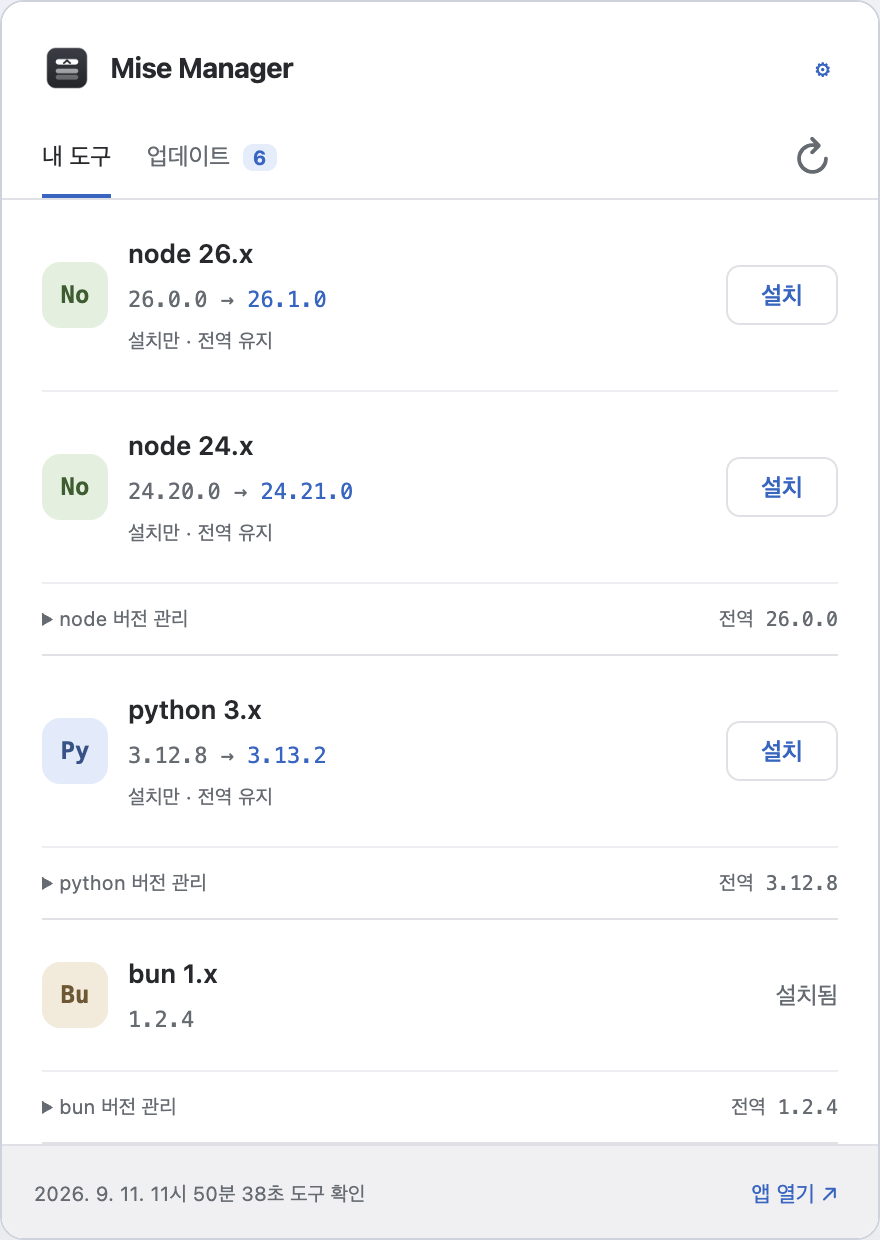
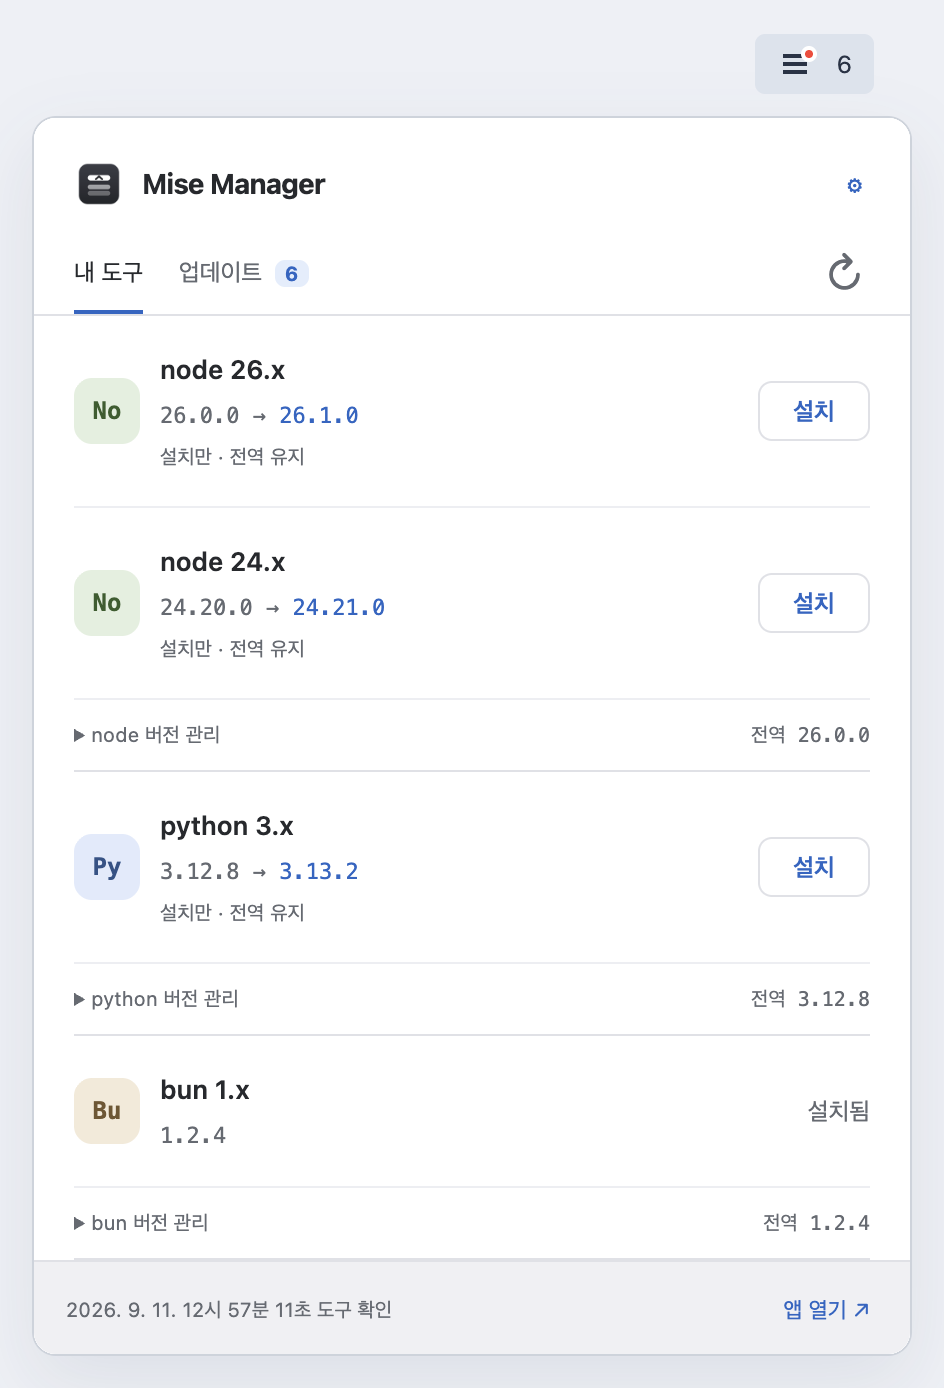
feat(tray): show a red badge when updates are available
Make pending mise, tool, and plugin updates visible on the menu-bar icon.
Preserve the native light/dark icon tint and click handling, keep the badge
visible during refreshes, and restore it when the status item is recreated.
Pin Tauri to the 2.11 series because native tray access follows its minor API.

Add a runnable native badge check and refresh the English and Korean README
screenshots and descriptions to show the update indicator.

diff --git a/src-tauri/examples/tray_badge_check.rs b/src-tauri/examples/tray_badge_check.rs
@@ -1,0 +1,92 @@
+//! Native UI regression check: cargo run --example tray_badge_check (macOS).
+#[cfg(target_os = "macos")]
+#[path = "../src/tray/badge.rs"]
+mod badge;
+
+#[cfg(target_os = "macos")]
+fn main() {
+    use objc2::{msg_send, MainThreadMarker};
+    use objc2_app_kit::{
+        NSAppearance, NSAppearanceCustomization, NSApplication, NSBitmapImageFileType,
+        NSCellImagePosition, NSImage, NSStatusBar,
+    };
+    use objc2_foundation::{NSDictionary, NSPoint, NSSize, NSString};
+
+    let mtm = MainThreadMarker::new().expect("run on the main thread");
+    let _app = NSApplication::sharedApplication(mtm);
+    let bar = NSStatusBar::systemStatusBar();
+    // Hiding and showing the app's tray creates a new native status item.
+    for _ in 0..2 {
+        let item = bar.statusItemWithLength(-1.0);
+        let button = item.button(mtm).unwrap();
+        let icon = NSImage::imageWithSystemSymbolName_accessibilityDescription(
+            &NSString::from_str("line.3.horizontal"),
+            None,
+        )
+        .unwrap();
+        icon.setSize(NSSize::new(18.0, 18.0));
+        icon.setTemplate(true);
+        button.setImage(Some(&icon));
+        button.setImagePosition(NSCellImagePosition::ImageLeft);
+        let baseline = button.subviews().len();
+        badge::update(&button, false, false);
+        assert_eq!(button.subviews().len(), baseline);
+        for title in ["3", "…", "12"] {
+            button.setTitle(&NSString::from_str(title));
+            button.sizeToFit();
+            badge::update(&button, true, false);
+            badge::update(&button, false, true);
+            assert_eq!(button.subviews().len(), baseline + 1, "reuse one badge");
+            let dot = button.subviews().lastObject().unwrap();
+            assert!(!dot.isHidden(), "updates remain visible during checks");
+            assert!(
+                dot.hitTest(NSPoint::new(4.0, 4.0)).is_none(),
+                "badge must not swallow clicks"
+            );
+            let accessible: bool = unsafe { msg_send![&dot, isAccessibilityElement] };
+            assert!(
+                !accessible,
+                "badge is decorative; the parent describes updates"
+            );
+            assert!(
+                button.image().unwrap().isTemplate(),
+                "keep native light/dark tint"
+            );
+            assert!(dot.frame().origin.x >= 0.0);
+            assert!(dot.frame().origin.y >= 0.0);
+        }
+        if let Some(directory) = std::env::var_os("MISE_BADGE_CAPTURE_DIR") {
+            let directory = std::path::PathBuf::from(directory);
+            std::fs::create_dir_all(&directory).unwrap();
+            for theme in ["NSAppearanceNameAqua", "NSAppearanceNameDarkAqua"] {
+                let appearance = NSAppearance::appearanceNamed(&NSString::from_str(theme)).unwrap();
+                button.setAppearance(Some(&appearance));
+                let bitmap = button
+                    .bitmapImageRepForCachingDisplayInRect(button.bounds())
+                    .unwrap();
+                button.cacheDisplayInRect_toBitmapImageRep(button.bounds(), &bitmap);
+                // No format-specific options are passed to AppKit.
+                let png = unsafe {
+                    bitmap.representationUsingType_properties(
+                        NSBitmapImageFileType::PNG,
+                        &NSDictionary::new(),
+                    )
+                }
+                .unwrap();
+                std::fs::write(directory.join(format!("{theme}.png")), png.to_vec()).unwrap();
+            }
+        }
+        badge::update(&button, false, false);
+        assert!(
+            button.subviews().lastObject().unwrap().isHidden(),
+            "clear when no updates remain"
+        );
+        bar.removeStatusItem(&item);
+    }
+    println!("Native badge: visibility, reuse, click-through, template tint and recreation passed");
+}
+
+#[cfg(not(target_os = "macos"))]
+fn main() {
+    eprintln!("This check requires macOS.");
+}

diff --git a/src-tauri/src/tray/badge.rs b/src-tauri/src/tray/badge.rs
@@ -1,0 +1,74 @@
+use objc2::{define_class, msg_send, rc::Retained, MainThreadMarker, MainThreadOnly};
+use objc2_app_kit::{NSBezierPath, NSColor, NSStatusBarButton, NSView};
+use objc2_foundation::{NSPoint, NSRect, NSSize};
+
+define_class!(
+    #[unsafe(super(NSView))]
+    #[name = "MiseManagerUpdateBadge"]
+    struct UpdateBadge;
+
+    impl UpdateBadge {
+        #[unsafe(method(drawRect:))]
+        fn draw(&self, _rect: NSRect) {
+            // A separate native view preserves the parent icon's template tint.
+            let circle = NSBezierPath::bezierPathWithOvalInRect(NSRect::new(
+                NSPoint::new(1.0, 1.0), NSSize::new(6.0, 6.0),
+            ));
+            NSColor::whiteColor().set();
+            circle.setLineWidth(2.0);
+            circle.stroke();
+            NSColor::systemRedColor().set();
+            circle.fill();
+        }
+
+        #[unsafe(method(hitTest:))]
+        fn hit_test(&self, _point: NSPoint) -> *mut NSView {
+            // Clicking the badge must still open the status item's popover.
+            std::ptr::null_mut()
+        }
+
+        #[unsafe(method(isAccessibilityElement))]
+        fn is_accessibility_element(&self) -> bool {
+            false // The parent retains the update count and descriptive tooltip.
+        }
+    }
+);
+
+pub fn update(button: &NSStatusBarButton, available: bool, checking: bool) {
+    // Checks temporarily clear version candidates; keep the last visible badge.
+    if checking && !available {
+        return;
+    }
+    let existing = button
+        .subviews()
+        .iter()
+        .find_map(|view| view.downcast::<UpdateBadge>().ok());
+    if !available {
+        if let Some(badge) = existing {
+            badge.setHidden(true);
+        }
+        return;
+    }
+
+    let bounds = button.bounds();
+    let Some(cell) = button.cell() else { return };
+    let icon = cell.imageRectForBounds(bounds);
+    let top = if button.isFlipped() {
+        icon.origin.y
+    } else {
+        icon.origin.y + icon.size.height - 8.0
+    };
+    let frame = NSRect::new(
+        NSPoint::new(icon.origin.x + icon.size.width - 6.0, top),
+        NSSize::new(8.0, 8.0),
+    );
+    let badge = existing.unwrap_or_else(|| {
+        let allocated = UpdateBadge::alloc(MainThreadMarker::from(button));
+        // NSView's designated initializer, called on the main thread.
+        let view: Retained<UpdateBadge> = unsafe { msg_send![allocated, initWithFrame: frame] };
+        button.addSubview(&view);
+        view
+    });
+    badge.setFrame(frame);
+    badge.setHidden(false);
+}

diff --git a/src-tauri/src/tray.rs b/src-tauri/src/tray.rs
@@ -5,6 +5,9 @@ use tauri::{
     AppHandle, Manager, PhysicalPosition, WebviewUrl, WebviewWindowBuilder, WindowEvent,
 };
 
+#[cfg(target_os = "macos")]
+mod badge;
+
 #[tauri::command]
 pub fn show_main_window(app: AppHandle) -> Result<(), String> {
     let window = app
@@ -121,6 +124,16 @@ pub fn set_tray_status(
         )))
         .map_err(|e| e.to_string())?;
         tray.set_visible(visible).map_err(|e| e.to_string())?;
+        // Showing a hidden tray recreates NSStatusItem, so apply the badge last.
+        #[cfg(target_os = "macos")]
+        tray.with_inner_tray_icon(move |inner| {
+            let mtm =
+                objc2::MainThreadMarker::new().expect("tray callback runs on the main thread");
+            if let Some(button) = inner.ns_status_item().and_then(|item| item.button(mtm)) {
+                badge::update(&button, count > 0, checking);
+            }
+        })
+        .map_err(|e| e.to_string())?;
     }
     if !visible {
         hide_tray_window(app)?;

diff --git a/README.ko.md b/README.ko.md
@@ -15,11 +15,11 @@
 
 ## 스크린샷
 
-[![Node 26과 Node 24의 업데이트를 각각 보여 주는 Mise Manager 앱 창과 메뉴바 화면](./docs/images/mise-manager-overview.png)](./docs/images/mise-manager-overview.png)
+[![Node 26과 Node 24의 업데이트를 각각 보여 주는 Mise Manager 앱 창, 메뉴바 화면, 빨간 업데이트 배지](./docs/images/mise-manager-overview.png)](./docs/images/mise-manager-overview.png)
 
-**앱 창:** 도구를 찾고, 설치된 각 major 계열의 업데이트를 확인하고, 전역 버전을 관리합니다. **메뉴바:** 작은 창에서 업데이트를 확인하고 새 버전을 설치하거나 사용할 버전을 전환합니다.
+**앱 창:** 도구를 찾고, 설치된 각 major 계열의 업데이트를 확인하고, 전역 버전을 관리합니다. **메뉴바:** 빨간 배지와 개수로 mise·도구·플러그인의 업데이트 여부를 알려 줍니다. 작은 창을 열어 업데이트를 확인하고 새 버전을 설치하거나 사용할 버전을 전환합니다.
 
-원본 크기로 보기: [앱 창](./docs/images/mise-manager-app.png) · [메뉴바 화면](./docs/images/mise-manager-menu-bar.png)
+원본 크기로 보기: [앱 창](./docs/images/mise-manager-app.png) · [메뉴바 아이콘과 화면](./docs/images/mise-manager-menu-bar.png)
 
 밝은 테마의 현재 앱 UI를 브라우저 미리보기에서 촬영했습니다. 표시된 도구와 버전은 샘플 데이터이며, 창 테두리와 메뉴바 아이콘은 소개용으로 배치했습니다.
 
@@ -27,7 +27,7 @@
 
 - 검색 가능한 사이드바에서 설치된 도구를 바로 선택합니다. 상세 화면에서 설치된 각 major 계열과 최신 안정 버전을 확인하고 전역 버전을 선택합니다.
 - 사이드바에서 **mise 관리**, **플러그인 관리**, **작업 기록**, **설정**을 엽니다.
-- **업데이트**에서 도구의 각 버전 계열, mise, 외부 플러그인의 업데이트를 한 목록으로 확인합니다. 사이드바 배지와 macOS 메뉴바에 같은 업데이트 수가 표시되며, 확인하지 못했거나 확인에 실패한 항목도 보여 줍니다.
+- **업데이트**에서 도구의 각 버전 계열, mise, 외부 플러그인의 업데이트를 한 목록으로 확인합니다. 사이드바 배지와 macOS 메뉴바에 같은 업데이트 수가 표시됩니다. 업데이트가 있으면 메뉴바 아이콘에 빨간 점이 붙고, 남은 업데이트가 없으면 사라집니다. 확인하지 못했거나 확인에 실패한 항목도 별도로 보여 줍니다.
 - 메뉴바 아이콘을 누르면 작은 창에서 도구 목록을 확인하고, 계열별 업데이트를 설치하거나 전역 버전을 선택할 수 있습니다. **설정 → 메뉴바 아이콘 표시**는 기본으로 켜져 있으며 앱을 다시 실행해도 선택을 유지합니다. mise 자체 업데이트와 새 major 설치는 앱 창에서 검토합니다. 메뉴바 아이콘을 숨겨도 앱 창을 닫으면 계속 실행됩니다. Dock에서 다시 열거나 앱 메뉴에서 종료할 수 있고, 아이콘이 보일 때는 우클릭 메뉴의 **Mise Manager 종료**로도 종료할 수 있습니다.
 - 설치된 major 계열을 각각 추적합니다. 도구마다 원격 버전 목록을 한 번 조회해 Node 26과 Node 24의 최신 안정 버전을 따로 찾습니다.
 - 도구 버전을 설치하고 전역 버전을 전환하거나 사용하지 않는 버전을 삭제합니다.
@@ -98,6 +98,8 @@ cd src-tauri
 cargo test
 cargo check
 ```
+
+macOS에서는 `src-tauri/`에서 `cargo run --example tray_badge_check`를 실행해 배지 표시·숨김, 클릭 전달, 아이콘 재생성을 검사할 수 있습니다.
 
 ## 동작 방식
 

diff --git a/README.md b/README.md
@@ -15,11 +15,11 @@ macOS is currently the only supported platform.
 
 ## Screenshots
 
-[![Mise Manager app window and menu-bar panel showing separate updates for Node 26 and Node 24](./docs/images/mise-manager-overview.png)](./docs/images/mise-manager-overview.png)
+[![Mise Manager app window, menu-bar panel, and red update badge showing separate updates for Node 26 and Node 24](./docs/images/mise-manager-overview.png)](./docs/images/mise-manager-overview.png)
 
-**App window:** browse tools, review updates for each installed major, and manage global versions. **Menu bar:** check updates, install a new version, or switch versions from a compact panel.
+**App window:** browse tools, review updates for each installed major, and manage global versions. **Menu bar:** the red badge and count show available mise, tool, and plugin updates. Open the compact panel to check updates, install a new version, or switch versions.
 
-View full size: [App window](./docs/images/mise-manager-app.png) · [Menu-bar panel](./docs/images/mise-manager-menu-bar.png)
+View full size: [App window](./docs/images/mise-manager-app.png) · [Menu-bar icon and panel](./docs/images/mise-manager-menu-bar.png)
 
 Captured from the current app UI in the browser preview with the light theme and sample data. Window frames and the menu-bar icon are arranged for presentation.
 
@@ -27,7 +27,7 @@ Captured from the current app UI in the browser preview with the light theme and
 
 - Select installed tools directly from the searchable sidebar. The detail pane shows each installed major, its latest stable version, and global version controls.
 - Open **mise Management**, **Plugin Management**, **Logs**, or **Settings** from the sidebar.
-- **Updates** collects tool-series, mise, and external-plugin updates in one list. Its sidebar badge and the macOS menu bar share the same count; unknown and failed checks remain visible.
+- **Updates** collects tool-series, mise, and external-plugin updates in one list. Its sidebar badge and the macOS menu bar share the same count. A red dot on the menu-bar icon stays visible while updates are available and clears when none remain; unknown and failed checks remain visible separately.
 - Click the menu-bar icon for a compact tool list, per-series installs, and global version selection. **Settings → 메뉴바 아이콘 표시** controls its visibility (on by default, saved across restarts). mise and new-major updates open the main window for review. Closing the main window keeps the app running, even with the icon hidden; reopen it from the Dock or quit from the app menu. When the icon is shown, its right-click menu also offers **Mise Manager 종료**.
 - Track every installed major independently: Node 26 and Node 24 each get their own latest stable candidate from one remote lookup per tool.
 - Install tool versions, switch the global version, or remove unused versions.
@@ -98,6 +98,8 @@ cd src-tauri
 cargo test
 cargo check
 ```
+
+On macOS, run `cargo run --example tray_badge_check` from `src-tauri/` to check native badge visibility, click handling, and icon recreation.
 
 ## How It Works
 
